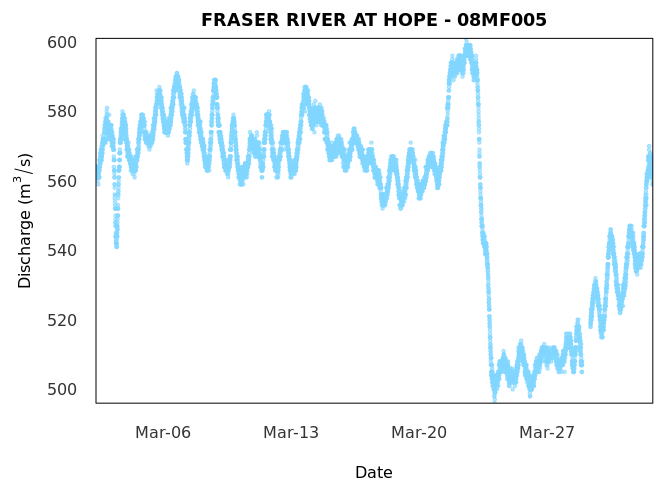
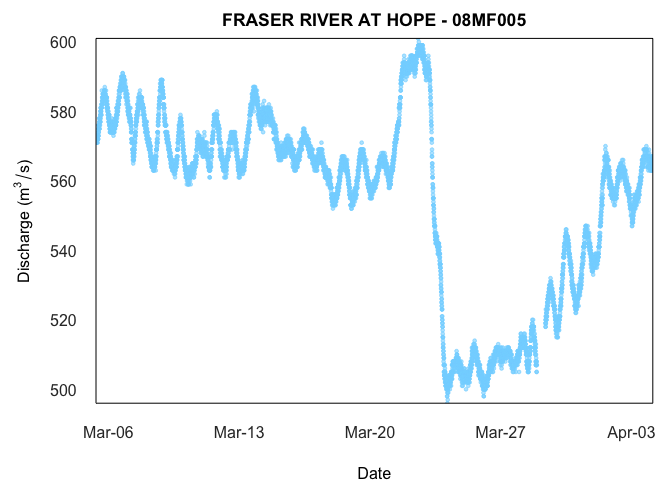
update README

diff --git a/README.md b/README.md
@@ -1,7 +1,6 @@
 <!-- README.md is generated from README.Rmd. Please edit that file -->
 
-tidyhydat <img src="man/figures/logo.png" align="right" />
-==========================================================
+# tidyhydat <img src="man/figures/logo.png" align="right" />
 
 <!-- badges: start -->
 
@@ -23,8 +22,7 @@ checks](https://badges.cranchecks.info/worst/tidyhydat.svg)](https://cran.r-proj
 [![R-CMD-check](https://github.com/ropensci/tidyhydat/actions/workflows/R-CMD-check.yaml/badge.svg)](https://github.com/ropensci/tidyhydat/actions/workflows/R-CMD-check.yaml)
 <!-- badges: end -->
 
-What does `tidyhydat` do?
--------------------------
+## What does `tidyhydat` do?
 
 -   Provides functions (`hy_*`) that access hydrometric data from the
     HYDAT database, a national archive of Canadian hydrometric data and
@@ -39,8 +37,7 @@ What does `tidyhydat` do?
     data and returns a [tibble](https://tibble.tidyverse.org/) of daily
     flows.
 
-Installation
-------------
+## Installation
 
 You can install `tidyhydat` from CRAN:
 
@@ -51,11 +48,10 @@ install directly from the rOpenSci development server:
 
     install.packages("tidyhydat", repos = "https://dev.ropensci.org")
 
-Usage
------
+## Usage
 
 More documentation on `tidyhydat` can found at the rOpenSci doc page:
-<a href="https://docs.ropensci.org/tidyhydat/" class="uri">https://docs.ropensci.org/tidyhydat/</a>
+<https://docs.ropensci.org/tidyhydat/>
 
 When you install `tidyhydat`, several other packages will be installed
 as well. One of those packages, `dplyr`, is useful for data
@@ -90,22 +86,22 @@ the same conventions discussed above. Using `realtime_dd()` we can
 easily select specific stations by supplying a station of interest:
 
     realtime_dd(station_number = "08MF005")
-    #>   Queried on: 2023-04-01 20:10:30 (UTC)
-    #>   Date range: 2023-03-02 to 2023-04-01 
-    #> # A tibble: 17,286 × 8
+    #>   Queried on: 2023-04-04 04:17:32 (UTC)
+    #>   Date range: 2023-03-05 to 2023-04-04 
+    #> # A tibble: 16,902 × 8
     #>    STATION_NUMBER PROV_TE…¹ Date                Param…² Value Grade Symbol Code 
     #>    <chr>          <chr>     <dttm>              <chr>   <dbl> <chr> <chr>  <chr>
-    #>  1 08MF005        BC        2023-03-02 08:00:00 Flow      562 <NA>  <NA>   1    
-    #>  2 08MF005        BC        2023-03-02 08:05:00 Flow      561 <NA>  <NA>   1    
-    #>  3 08MF005        BC        2023-03-02 08:10:00 Flow      564 <NA>  <NA>   1    
-    #>  4 08MF005        BC        2023-03-02 08:15:00 Flow      564 <NA>  <NA>   1    
-    #>  5 08MF005        BC        2023-03-02 08:20:00 Flow      563 <NA>  <NA>   1    
-    #>  6 08MF005        BC        2023-03-02 08:25:00 Flow      564 <NA>  <NA>   1    
-    #>  7 08MF005        BC        2023-03-02 08:30:00 Flow      564 <NA>  <NA>   1    
-    #>  8 08MF005        BC        2023-03-02 08:35:00 Flow      564 <NA>  <NA>   1    
-    #>  9 08MF005        BC        2023-03-02 08:40:00 Flow      564 <NA>  <NA>   1    
-    #> 10 08MF005        BC        2023-03-02 08:45:00 Flow      562 <NA>  <NA>   1    
-    #> # … with 17,276 more rows, and abbreviated variable names ¹PROV_TERR_STATE_LOC,
+    #>  1 08MF005        BC        2023-03-05 08:00:00 Flow      571 <NA>  <NA>   1    
+    #>  2 08MF005        BC        2023-03-05 08:05:00 Flow      572 <NA>  <NA>   1    
+    #>  3 08MF005        BC        2023-03-05 08:10:00 Flow      571 <NA>  <NA>   1    
+    #>  4 08MF005        BC        2023-03-05 08:15:00 Flow      571 <NA>  <NA>   1    
+    #>  5 08MF005        BC        2023-03-05 08:20:00 Flow      571 <NA>  <NA>   1    
+    #>  6 08MF005        BC        2023-03-05 08:25:00 Flow      572 <NA>  <NA>   1    
+    #>  7 08MF005        BC        2023-03-05 08:30:00 Flow      572 <NA>  <NA>   1    
+    #>  8 08MF005        BC        2023-03-05 08:35:00 Flow      571 <NA>  <NA>   1    
+    #>  9 08MF005        BC        2023-03-05 08:40:00 Flow      572 <NA>  <NA>   1    
+    #> 10 08MF005        BC        2023-03-05 08:45:00 Flow      573 <NA>  <NA>   1    
+    #> # … with 16,892 more rows, and abbreviated variable names ¹PROV_TERR_STATE_LOC,
     #> #   ²Parameter
 
 Or we can use `realtime_ws`:
@@ -116,29 +112,29 @@ Or we can use `realtime_ws`:
       start_date = Sys.Date() - 14,
       end_date = Sys.Date()
     )
-    #> Warning: One or more parsing issues, call `problems()` on your data frame for details, e.g.:
+    #> Warning: One or more parsing issues, call `problems()` on your data frame for details,
+    #> e.g.:
     #>   dat <- vroom(...)
     #>   problems(dat)
     #> All station successfully retrieved
     #> All parameters successfully retrieved
-    #> # A tibble: 4,475 × 10
+    #> # A tibble: 4,536 × 10
     #>    STATIO…¹ Date                Name_En Value Unit  Grade Symbol Appro…² Param…³
     #>    <chr>    <dttm>              <chr>   <dbl> <chr> <chr> <chr>    <int>   <dbl>
-    #>  1 08MF005  2023-03-18 00:00:00 Water …  4.76 °C    -1    <NA>        NA       5
-    #>  2 08MF005  2023-03-18 01:00:00 Water …  3.91 °C    -1    <NA>        NA       5
-    #>  3 08MF005  2023-03-18 02:00:00 Water …  3.67 °C    -1    <NA>        NA       5
-    #>  4 08MF005  2023-03-18 03:00:00 Water …  3.57 °C    -1    <NA>        NA       5
-    #>  5 08MF005  2023-03-18 04:00:00 Water …  3.24 °C    -1    <NA>        NA       5
-    #>  6 08MF005  2023-03-18 05:00:00 Water …  3.21 °C    -1    <NA>        NA       5
-    #>  7 08MF005  2023-03-18 06:00:00 Water …  3.06 °C    -1    <NA>        NA       5
-    #>  8 08MF005  2023-03-18 07:00:00 Water …  3.11 °C    -1    <NA>        NA       5
-    #>  9 08MF005  2023-03-18 08:00:00 Water …  3.03 °C    -1    <NA>        NA       5
-    #> 10 08MF005  2023-03-18 09:00:00 Water …  2.93 °C    -1    <NA>        NA       5
-    #> # … with 4,465 more rows, 1 more variable: Code <chr>, and abbreviated variable
+    #>  1 08MF005  2023-03-20 00:00:00 Water …  5.19 °C    -1    <NA>        NA       5
+    #>  2 08MF005  2023-03-20 01:00:00 Water …  4.03 °C    -1    <NA>        NA       5
+    #>  3 08MF005  2023-03-20 02:00:00 Water …  3.93 °C    -1    <NA>        NA       5
+    #>  4 08MF005  2023-03-20 03:00:00 Water …  3.94 °C    -1    <NA>        NA       5
+    #>  5 08MF005  2023-03-20 04:00:00 Water …  3.84 °C    -1    <NA>        NA       5
+    #>  6 08MF005  2023-03-20 05:00:00 Water …  3.7  °C    -1    <NA>        NA       5
+    #>  7 08MF005  2023-03-20 06:00:00 Water …  3.71 °C    -1    <NA>        NA       5
+    #>  8 08MF005  2023-03-20 07:00:00 Water …  3.47 °C    -1    <NA>        NA       5
+    #>  9 08MF005  2023-03-20 08:00:00 Water …  3.64 °C    -1    <NA>        NA       5
+    #> 10 08MF005  2023-03-20 09:00:00 Water …  3.46 °C    -1    <NA>        NA       5
+    #> # … with 4,526 more rows, 1 more variable: Code <chr>, and abbreviated variable
     #> #   names ¹STATION_NUMBER, ²Approval, ³Parameter
 
-Compare realtime\_ws and realtime\_dd
--------------------------------------
+## Compare realtime\_ws and realtime\_dd
 
 `tidyhydat` provides two methods to download realtime data.
 `realtime_dd()` provides a function to import .csv files from
@@ -178,16 +174,14 @@ and also historical data:
 
 ![](man/figures/README-unnamed-chunk-9-1.png)
 
-Getting Help or Reporting an Issue
-----------------------------------
+## Getting Help or Reporting an Issue
 
 To report bugs/issues/feature requests, please file an
 [issue](https://github.com/ropensci/tidyhydat/issues/).
 
 These are very welcome!
 
-How to Contribute
------------------
+## How to Contribute
 
 If you would like to contribute to the package, please see our
 [CONTRIBUTING](https://github.com/ropensci/tidyhydat/blob/master/CONTRIBUTING.md)
@@ -197,8 +191,7 @@ Please note that this project is released with a [Contributor Code of
 Conduct](https://github.com/ropensci/tidyhydat/blob/master/CODE_OF_CONDUCT.md).
 By participating in this project you agree to abide by its terms.
 
-Citation
---------
+## Citation
 
 Get citation information for `tidyhydat` in R by running:
 
@@ -226,8 +219,7 @@ Get citation information for `tidyhydat` in R by running:
 
 [![ropensci\_footer](https://ropensci.org/public_images/ropensci_footer.png)](https://ropensci.org)
 
-License
--------
+## License
 
 Copyright 2017 Province of British Columbia
 
@@ -235,7 +227,7 @@ Licensed under the Apache License, Version 2.0 (the “License”); you may
 not use this file except in compliance with the License. You may obtain
 a copy of the License at
 
-<a href="https://www.apache.org/licenses/LICENSE-2.0" class="uri">https://www.apache.org/licenses/LICENSE-2.0</a>
+<https://www.apache.org/licenses/LICENSE-2.0>
 
 Unless required by applicable law or agreed to in writing, software
 distributed under the License is distributed on an “AS IS” BASIS,
